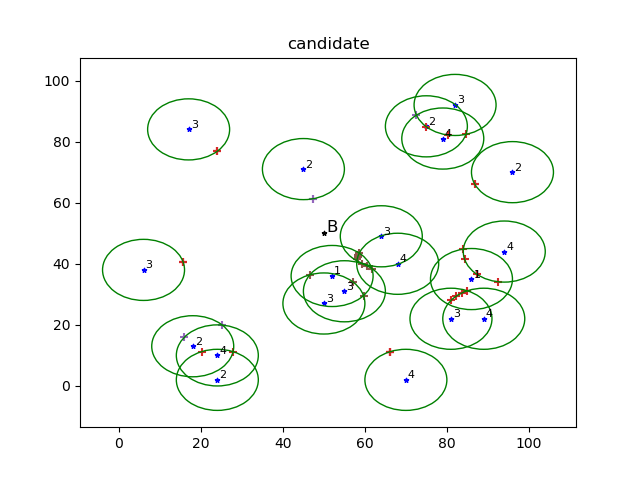
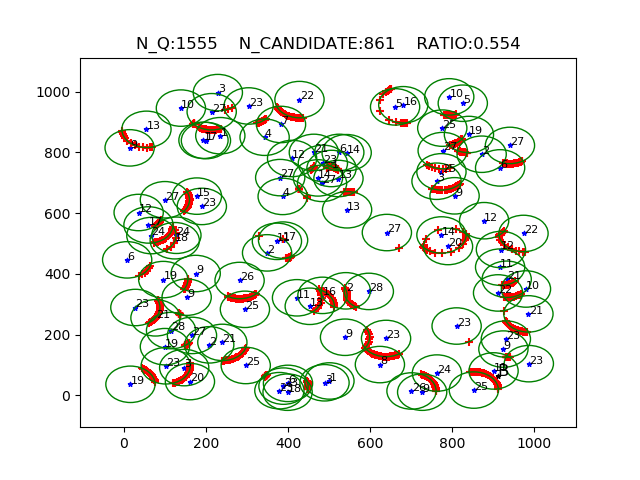
find candidate

diff --git a/visualize.py b/visualize.py
@@ -35,10 +35,17 @@ def plot_candidate(targets: List[Target], B: Point):
     plt.scatter([B.x], [B.y], c='black', marker='*', s=10)
     plt.text(x=B.x + 0.5, y=B.y + 0.5, s='B', fontsize=12)
     plot_target(targets, axes=axes, figure=figure)
-    candidates = find_candidates(targets, B)
-    for i, cans in enumerate(candidates):
-        plot_point(cans, c='C{}'.format((i+3)%10), marker='+', axes=axes, figure=figure,)
-    plt.title('candidate')
+    cans = find_candidates(targets, B)
+    candidates = []
+    for cans_pareto in cans:
+        candidates.extend(cans_pareto)
+
+    candidates = list(set(candidates))
+    plot_point(candidates, c='r', marker='+', axes=axes, figure=figure,)
+    n_candidates = len(candidates)
+    qs = [t.q for t in targets]
+    n_q = sum(qs)
+    plt.title('N_Q:{}    N_CANDIDATE:{}    RATIO:{:.3f}'.format(n_q, n_candidates, n_candidates/n_q))
     plt.savefig(ROOT_PATH + '/figures/candidate.png')
     plt.axis('scaled')
     plt.show()
@@ -46,8 +53,8 @@ def plot_candidate(targets: List[Target], B: Point):
 
 def main():
     B, targets = get_data()
-    targets = find_arc_of_target(targets)
-    paretos = find_pareto_of_targets(targets, B)
+    # targets = find_arc_of_target(targets)
+    # paretos = find_pareto_of_targets(targets, B)
 
     # for i in range(len(paretos)):
     #     set_arc = []

diff --git a/run.py b/run.py
@@ -1,0 +1,34 @@
+from data.genarate_data import get_data
+from cover.find_candidate import find_candidates
+from config.get_config import *
+
+
+def main():
+    total_nq = 0
+    total_nc = 0
+    for i in range(N_TEST):
+        print('-'*30 + 'TEST {}'.format(i+1) + '-'*30)
+        B, targets = get_data()
+        qs = [t.q for t in targets]
+        n_q = sum(qs)
+        cans = find_candidates(targets, B)
+        candidates = []
+        for cans_pareto in cans:
+            candidates.extend(cans_pareto)
+
+        candidates = list(set(candidates))
+        n_candidates = len(candidates)
+
+        total_nq += n_q
+        total_nc += n_candidates
+        print('Total Q         :', n_q)
+        print('Total candidates:', n_candidates)
+        print("Ratio           : {:.2f}".format(n_candidates/n_q))
+
+    print('*' * 30 + 'FINAL {}' + '*' * 30)
+    print('Total Q         :', total_nq)
+    print('Total candidates:', total_nc)
+    print("Ratio           : {:.2f}".format(total_nc / total_nq))
+
+if __name__ == '__main__':
+    main()

diff --git a/cover/find_candidate.py b/cover/find_candidate.py
@@ -38,14 +38,10 @@ def find_pareto_of_targets(targets: List[Target], B: Point):
 
     for si in s:
         s_.extend(find_pareto(si, B))
-
-    res = [[]]
+    max_dominant = max([si.dominant for si in s_])
+    res = [[]]*(max_dominant+1)
     for t in s_:
-        if t.dominant < len(res):
-            res[t.dominant].append(t)
-        else:
-            res.append([])
-            res[t.dominant].append(t)
+        res[t.dominant].append(t)
     for i, pareto in enumerate(res):
         far_target = {}
         for target in pareto:

diff --git a/cover/graph/figure.py b/cover/graph/figure.py
@@ -191,8 +191,10 @@ class Arc:
 
     def distance_to_base(self, B: Point):
         mid_arc = self.candidate(ratio=0.5)
-        d = distance(B, mid_arc)
-        return d
+        d_mid = distance(B, mid_arc)
+        # d1 = distance(B, self.p1)
+        # d2 = distance(B, self.p2)
+        return d_mid
 
     def get_candidate(self, q):
         ratios = list(range(0, q))

diff --git a/config/get_config.py b/config/get_config.py
@@ -15,3 +15,4 @@ with open(ROOT_PATH + '/config/config.yaml', 'r') as pf:
     EPSILON = config['OPTIONAL']['EPSILON']
     CHANGE_DATA = config['DATA']['CHANGE_DATA']
     CHANGE_Q = config['TARGET']['CHANGE_Q']
+    N_TEST = config['DATA']['N_TEST']
